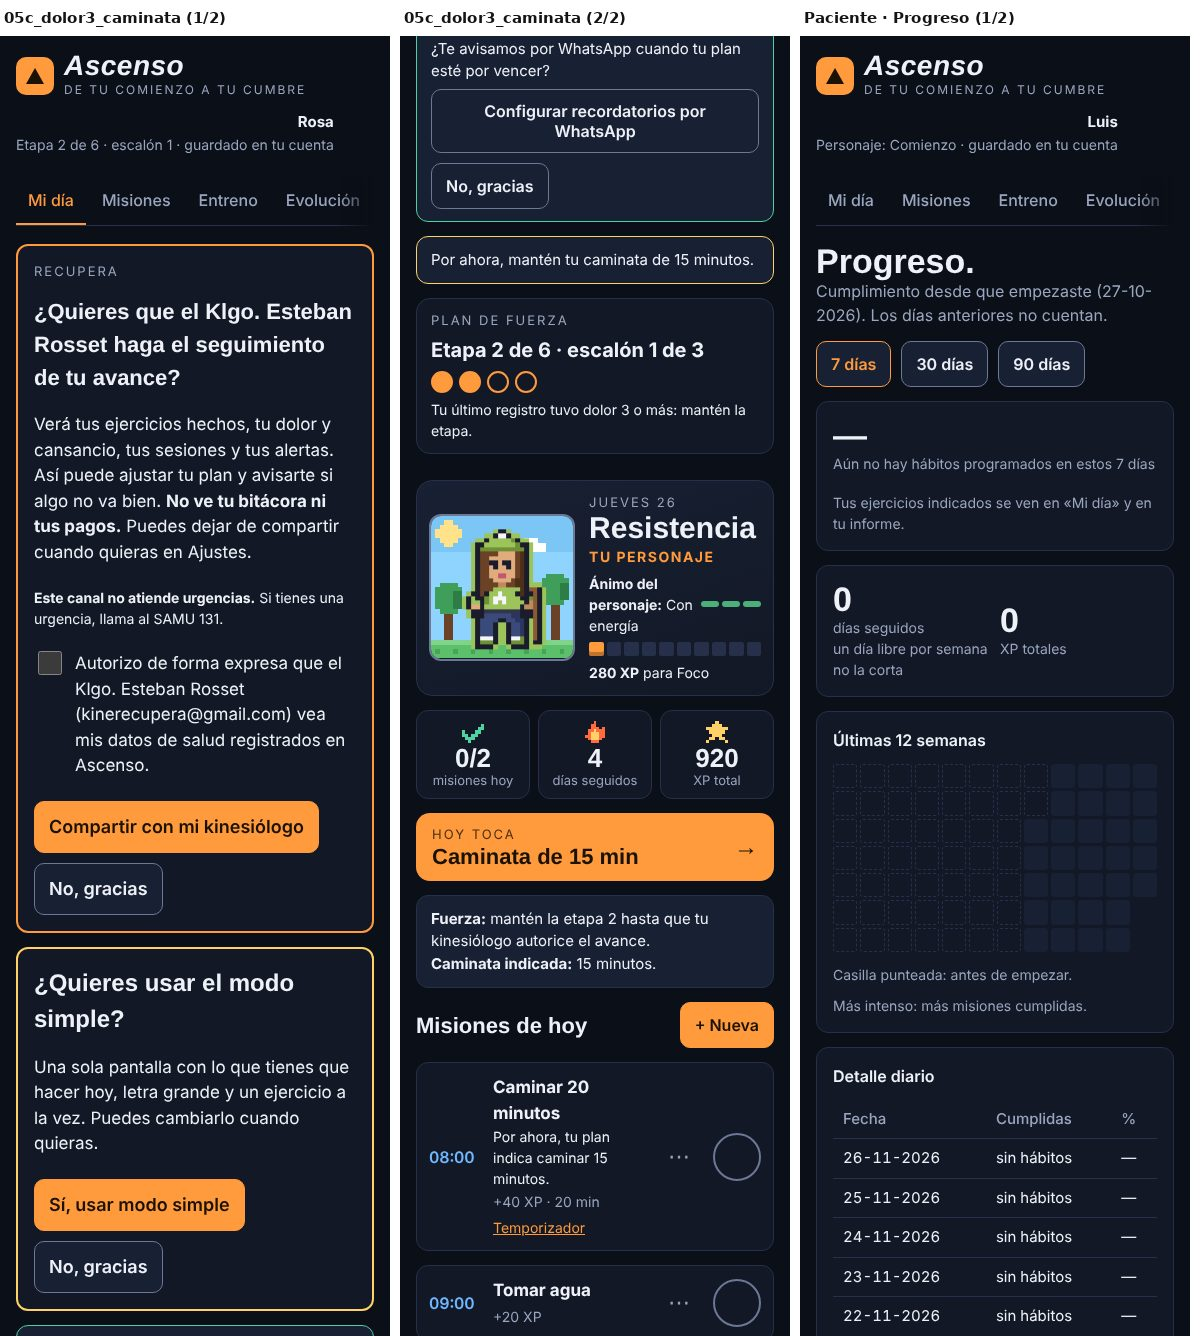
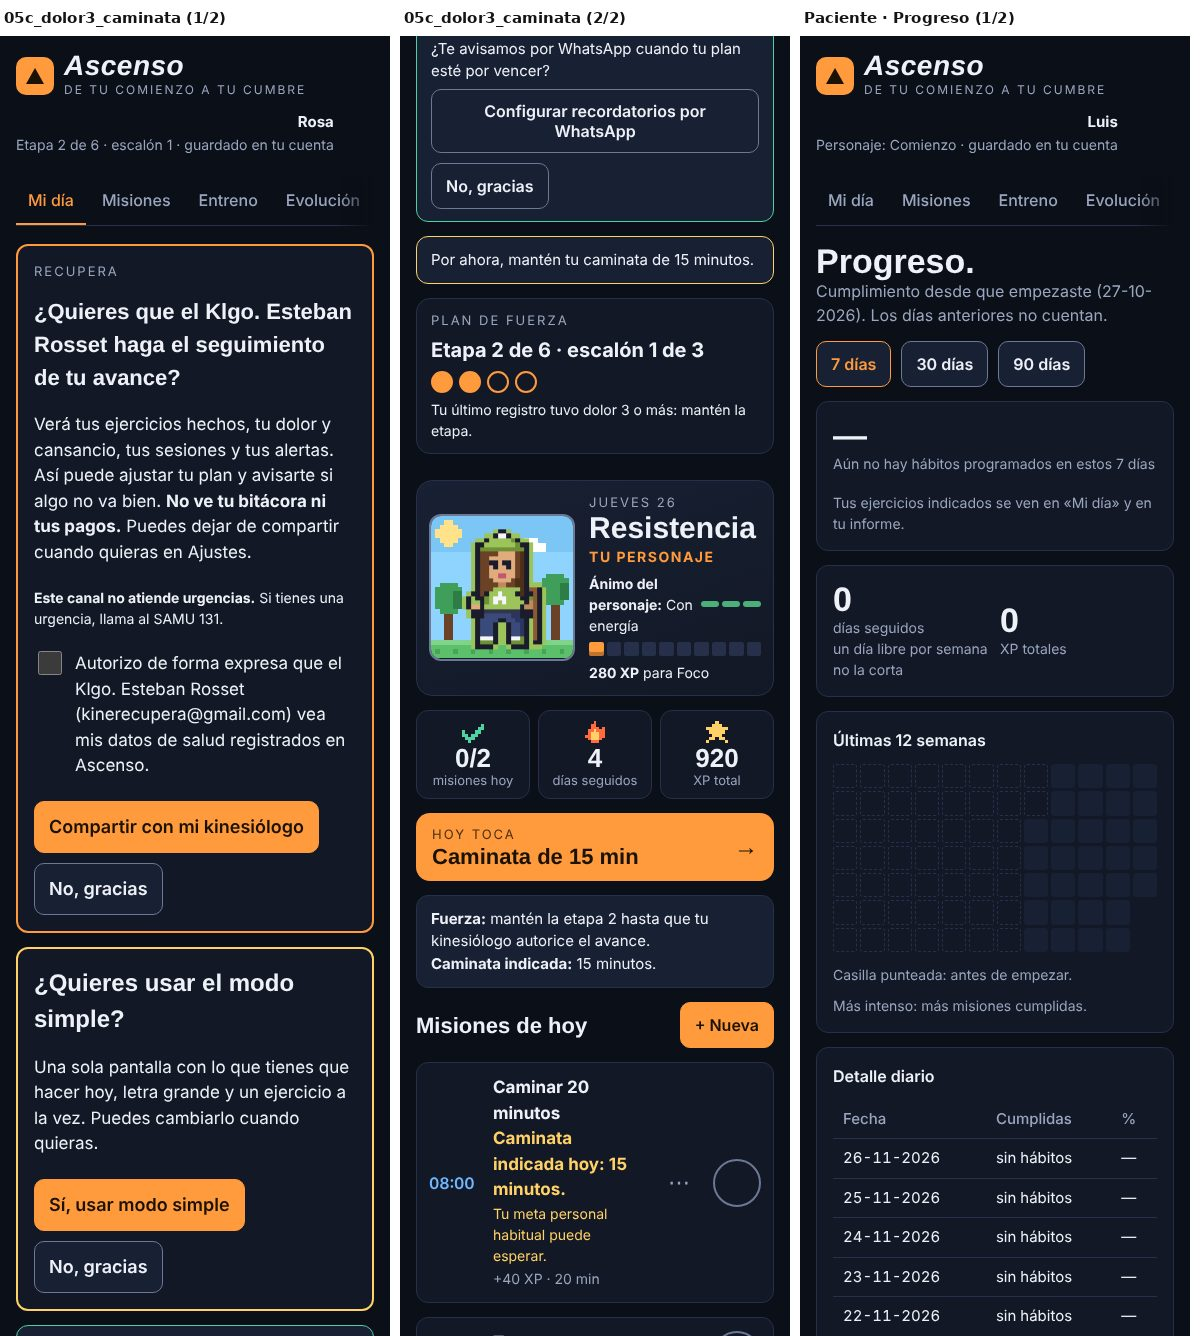
Copia de prueba v79: #60 #63 #64 (la app de los pacientes no cambia)
Claude-Session: https://claude.ai/code/session_01J9tU8kEPtqaroEiwXZirqq

Changed region(s): [[0.3392, 0.8286, 0.5242, 1.0], [0.5858, 0.982, 0.6475, 1.0], [0.5858, 0.8593, 0.6475, 0.89]]

diff --git a/beta/index.html b/beta/index.html
@@ -2,7 +2,7 @@
 <html lang="es">
 <head><base href="/ascenso/"><meta name="robots" content="noindex,nofollow"><script>(function(){var P="beta::",S=Storage.prototype,g=S.getItem,t=S.setItem,r=S.removeItem;S.getItem=function(k){return g.call(this,P+k)};S.setItem=function(k,v){return t.call(this,P+k,v)};S.removeItem=function(k){return r.call(this,P+k)};window.__BETA=true;window.__BETA_OK=[]})();</script>
 <meta charset="utf-8">
-<meta http-equiv="Content-Security-Policy" content="script-src 'self' 'sha256-s/2Ct3tFYhvXDkHKQXgCxKZn0b7j8MYsCZJcokQtB40=' 'sha256-PB0sfcQtKp8yHvTqB113r4+jDCwRiSKJRHyeBi9QgSM=' 'sha256-AFdyW6QBsN7g3o2Wol3DzaFtzZPYZuMmQ8KwB76Xs6I=' 'sha256-5m2u4pl+QQ/JE5w8ukPTJ/in6Wfsb5JmjLwGXVXoulQ=' 'sha256-x6Jjqo12cp5KPEwhwsD15s6v7TK37973w38eJjFjN10='; object-src 'none'; base-uri 'self'">
+<meta http-equiv="Content-Security-Policy" content="script-src 'self' 'sha256-s/2Ct3tFYhvXDkHKQXgCxKZn0b7j8MYsCZJcokQtB40=' 'sha256-FnGwi9MxPS9vc1IOxAUlZoINnJ9Y5FRYdE7A1ZZ2zFE=' 'sha256-AFdyW6QBsN7g3o2Wol3DzaFtzZPYZuMmQ8KwB76Xs6I=' 'sha256-5m2u4pl+QQ/JE5w8ukPTJ/in6Wfsb5JmjLwGXVXoulQ=' 'sha256-x6Jjqo12cp5KPEwhwsD15s6v7TK37973w38eJjFjN10='; object-src 'none'; base-uri 'self'">
 <meta name="viewport" content="width=device-width,initial-scale=1,viewport-fit=cover">
 <meta name="theme-color" content="#0b0f17">
 
@@ -422,7 +422,7 @@ function isPhys(m){return PHYS_RE.test(String(m&&m.name||""))}
 function planPaused(){if(!S.onboard||!S.onboard.health||!S.train)return false;const tr=trainReady();return tr==="paused"||tr==="hold"}
 function mPaused(m,d){return d===today()&&isPhys(m)&&planPaused()}
 function markPauseDay(){if(planPaused()){S.pauseDays=S.pauseDays||{};S.pauseDays[today()]=1}}
-function walkNote(m){if(!/camin/i.test(String(m&&m.name||""))||!S.train||!S.train.plan||trainReady()!=="ok"||progression().state!=="hold")return"";return`Por ahora, tu plan indica caminar ${S.train.plan.walk} minutos.`}
+function walkNote(m){if(!/camin/i.test(String(m&&m.name||""))||!S.train||!S.train.plan||trainReady()!=="ok"||progression().state!=="hold")return"";return`Caminata indicada hoy: ${S.train.plan.walk} minutos. Por ahora, tu plan indica caminar ${S.train.plan.walk} minutos.`}
 function dayMissions(day){return S.missions.filter(m=>scheduled(m,day)).sort((a,b)=>(a.time||"99:99").localeCompare(b.time||"99:99"))}
 function streak(){let n=0,g=0,d=today();const has=x=>S.done[x]&&Object.keys(S.done[x]).length>0,first=S.created||today();if(!has(d))d=addDays(d,-1);for(let k=0;k<1500&&d>=first;k++){if(has(d))n++;else if(dayMissions(d).filter(m=>!(S.pauseDays&&S.pauseDays[d]&&isPhys(m))).length===0){}else if(g<1+Math.floor(n/7))g++;else break;d=addDays(d,-1)}return n}
 function memberState(){const m=M||{status:"SIN MEMBRESÍA",active:false},exp=m.expires_at?Date.parse(m.expires_at):0,now=Date.now()+skew,active=!!m.active&&exp>now;let status=m.status;if(status==="ACTIVO"&&!active)status="VENCIDO";return{status,active,exp,kind:m.kind||"",days:active?Math.ceil((exp-now)/DAY):0}}
@@ -808,13 +808,13 @@ let KB=false;
 function simpleBtn(){if((M&&M.pro)||(S.ui&&S.ui.simple)||!(S.ui&&S.ui.simpleAsked))return"";return`<button class="btn tap" data-act="simpleOn" style="width:100%;min-height:52px;font-size:18px;border:2px solid var(--accent)">👆 Modo simple: toca aquí</button>`}
 function rxNextIdx(its,from){for(let j=0;j<its.length;j++){const i=(from+j)%its.length;if(!rxIsDone(rxKey(its[i])))return i}return -1}
 function rxPause(){if(!S.onboard||!S.onboard.health)return null;const tr=trainReady();if(tr==="paused")return{k:"parq"};if(tr==="hold"&&S.train.hold)return{k:S.train.hold.kind==="sintomas"?"sintomas":"dolor"};return null}
-function rxPauseMsg(p){return p.k==="parq"?"Tu pauta está en pausa. Tu kinesiólogo debe revisar tu respuesta antes de que retomes los ejercicios.":p.k==="sintomas"?"Tu pauta está en pausa porque registraste síntomas de alerta. No hagas estos ejercicios hasta hablar con tu kinesiólogo.":"Tu pauta está en pausa porque registraste dolor alto. No hagas estos ejercicios hasta que el dolor vuelva a tu nivel habitual o hables con tu kinesiólogo."}
+function rxPauseMsg(p){return p.k==="parq"?"Tu pauta está en pausa. Tu kinesiólogo debe revisar tu respuesta antes de que retomes los ejercicios.":p.k==="sintomas"?"Tu pauta está en pausa por los síntomas que registraste. Tu kinesiólogo debe revisar el registro y reactivar el plan antes de que retomes estos ejercicios.":"Tu pauta está en pausa porque registraste dolor alto. No hagas estos ejercicios hasta que el dolor vuelva a tu nivel habitual o hables con tu kinesiólogo."}
 function rxPausedCard(its,go){const p=rxPause();return`<div class="card" id="rxPaused" style="border:2px solid var(--bad,#b91c1c)">${p.k==="sintomas"?samuBox("0 0 12px"):""}<div class="eyebrow">Indicado por tu kinesiólogo</div><h2 style="margin:2px 0 6px">Pauta en pausa</h2><p style="margin:0 0 10px">${rxPauseMsg(p)}</p><ul class="stack" style="list-style:none;padding:0;margin:0;gap:6px" aria-label="Ejercicios en pausa">${its.map(it=>`<li class="small" aria-disabled="true" style="opacity:.7;border:1px solid var(--line2);border-radius:10px;padding:8px 10px"><b>${esc(rxName(it))}</b>${it.dose?` · ${esc(it.dose)}`:""}</li>`).join("")}</ul>${go==="none"?`<p class="small mute" style="margin:10px 0 0">Más abajo puedes ver la pausa y tus registros.</p>`:`<div class="row" style="margin-top:10px"><button class="btn tap${go==="sxPlan"?" sxl":""}" data-act="${go||"tab"}" data-k="entreno">Ver la pausa y mis registros</button></div>`}</div>`}
 function rxBlocked(){const p=rxPause();if(p){toast("Tu pauta está en pausa. Revisa el aviso antes de seguir.");return true}return false}
 function painStop(){const f=(S.dayFb||{})[today()]||{};return typeof f.pain==="number"&&f.pain>=6&&!f.go}
 function sProg(){try{const xp=totalXP(),si=stageIdx(xp),next=XP_STEPS[si+1],pct=next?Math.round((xp-XP_STEPS[si])/(next-XP_STEPS[si])*100):100,av=myAv();
  return`<section class="scard" aria-label="Tu avance"><h2>Tu avance</h2><div style="display:flex;gap:14px;align-items:center"><div style="width:112px;flex:none;border-radius:12px;overflow:hidden">${pxSvg(av,si+1,{anim:motionOn(),label:"Tu personaje: "+formName(si)})}</div><div style="min-width:0;flex:1"><p style="margin:0;font-size:24px;font-weight:800;line-height:1.15">${esc(formName(si))}</p><p style="margin:2px 0 8px;font-size:17px" class="mute">Forma ${si+1} de 16</p>${pbar(pct)}<p style="margin:8px 0 0;font-size:17px">${next?`Te faltan <b>${next-xp} XP</b> para llegar a <b>${esc(formName(si+1))}</b>.`:"¡Llegaste a la cumbre!"}</p></div></div><div style="margin-top:10px">${evoChart()}</div><p class="mute" style="margin:6px 0 0;font-size:16px">Tu personaje sube con cada hábito y ejercicio que cumples.</p></section>`}catch(e){return""}}
-function trPauseMsg(tr){const k=SH.mine.length?"tu kinesiólogo":"un kinesiólogo";if(tr==="paused")return{bad:1,eb:"Plan de fuerza en pausa",t:"Espera la autorización de "+k,sub:"Por tus respuestas del cuestionario previo, el plan (fuerza y caminata) no se registra hasta que te autorice. Tus hábitos siguen igual."};if(tr==="hold")return{bad:1,eb:"Plan en pausa",t:S.train.hold&&S.train.hold.kind==="sintomas"?"Registraste síntomas de alerta":"Registraste dolor alto o nuevo",sub:"Toca para ver qué hacer antes de volver a entrenar."};if(tr==="parq")return{eb:"Plan de fuerza",t:"Responde el cuestionario previo",sub:PARQ.length+" preguntas de Sí o No antes de partir."};if(tr==="consent")return{eb:"Plan de fuerza",t:"Falta tu autorización de datos de salud"};return{eb:"Plan de fuerza",t:"Actívalo en 2 minutos"}}
+function trPauseMsg(tr){const k=SH.mine.length?"tu kinesiólogo":"un kinesiólogo";if(tr==="paused")return{bad:1,eb:"Plan de fuerza en pausa",t:"Espera la autorización de "+k,sub:"Por tus respuestas del cuestionario previo, el plan (fuerza y caminata) no se registra hasta que te autorice. Puedes seguir registrando los hábitos que no son actividad física, como tomar agua."};if(tr==="hold")return{bad:1,eb:"Plan en pausa",t:S.train.hold&&S.train.hold.kind==="sintomas"?"Registraste síntomas de alerta":"Registraste dolor alto o nuevo",sub:"Toca para ver qué hacer antes de volver a entrenar."};if(tr==="parq")return{eb:"Plan de fuerza",t:"Responde el cuestionario previo",sub:PARQ.length+" preguntas de Sí o No antes de partir."};if(tr==="consent")return{eb:"Plan de fuerza",t:"Falta tu autorización de datos de salud"};return{eb:"Plan de fuerza",t:"Actívalo en 2 minutos"}}
 function moodDays(){const ds=[];for(const d in (S.done||{}))if(Object.values(S.done[d]||{}).some(v=>+v>0))ds.push(d);for(const x of ((S.train||{}).sessions||[]))if(x.date)ds.push(x.date);for(const d in (S.rxDone||{}))if(Object.keys(S.rxDone[d]||{}).length)ds.push(d);for(const d in (S.pauseDays||{}))ds.push(d);if(!ds.length)return null;const l=ds.sort().pop();return Math.max(0,Math.round((pdate(today())-pdate(l))/864e5))}
 const MOOD=[["Apagado","Tu personaje te extraña"],["Decaído","Hace días que no se mueve"],["Cansado","Le falta un poco de movimiento"],["Con energía","Está con toda la energía"]];
 function moodLvl(d){return d===null||d<=1?3:d<=3?2:d<=6?1:0}
@@ -828,7 +828,7 @@ function vSimple(){const d=today(),its=rxAll(),ms=dayMissions(d),done=S.done[d]|
  <p class="shelp">🤝 Si te ayuda alguien, puede tocar los botones por ti.</p>
  ${its.length&&rxPause()?rxPausedCard(its,"sxPlan"):its.length?`<section class="scard"><h2>Ejercicios de tu kinesiólogo</h2><p style="margin:0;font-size:18px"><b>${nd} de ${its.length}</b> hechos hoy</p>${its.map((it,i)=>{const k=rxKey(it),ok=rxIsDone(k),src=it.ex?rxSrc(it.ex):"";return`<button class="srow${ok?" ok":""}" data-act="sxGo" data-i="${i}">${src?`<img src="${src}" alt="" loading="lazy">`:""}<span><b>${esc(rxName(it))}</b>${it.dose?`<small>${esc(it.dose)}</small>`:""}</span><span class="sst" aria-label="${ok?"Hecho":"Pendiente"}">${ok?"✓":""}</span></button>`}).join("")}${nx>=0?(painStop()?`<div class="banner bad" style="margin-top:12px;font-size:17px"><b>Marcaste dolor ${fb.pain} de 10.</b> Antes de seguir con ejercicios hoy, habla con tu kinesiólogo.</div>${SH.mine.length?`<button class="btn pri sxl" data-act="sxPainNote">Avisarle a mi kinesiólogo</button>`:""}<button class="btn sxl" data-act="sxPainGo">Hablé con mi kinesiólogo y quiero seguir</button>`:`<button class="btn pri sxl" data-act="sxGo" data-i="${nx}">▶ ${nd?(its.length-nd===1?`Ver mi último ejercicio: ${esc(rxName(its[nx]))}`:`Seguir con el siguiente: ${esc(rxName(its[nx]))}`):"Empezar mis ejercicios"}</button>`):`<p style="margin:12px 0 0;font-size:19px">✅ <b>¡Listo por hoy!</b> Hiciste todos tus ejercicios.</p>`}</section>`:anyRx?`<section class="scard"><h2>Ejercicios de tu kinesiólogo</h2><p style="margin:0;font-size:18px">Hoy no te tocan. Descansar también es parte del plan.${rxNext(SH.mine.flatMap(x=>x.rx||[]))?` Los próximos son el <b>${rxNext(SH.mine.flatMap(x=>x.rx||[]))}</b>.`:""}</p></section>`:""}
  ${S.train&&S.train.plan?`<section class="scard"><h2>Tu plan Ascenso</h2>${tr==="ok"?(sessionToday()?`<p style="margin:0;font-size:18px"><b>Tu sesión de hoy ya está registrada.</b> Próxima: ${nextTrainTxt()}.</p>${capLines()}${walkKeep()}<button class="btn sxl" data-act="sxPlan">Ver mi plan</button>`:`<p style="margin:0;font-size:18px">Hoy toca <b>${tt==="fuerza"?"fuerza · etapa "+S.train.stage:"caminata de "+S.train.plan.walk+" minutos"}</b>.</p>${capLines()}${walkKeep()}<button class="btn sxl" data-act="sxPlan">Hacer mi plan de hoy</button>`):`<p style="margin:0;font-size:18px"><b>${trPauseMsg(tr).t}.</b>${trPauseMsg(tr).sub?" "+trPauseMsg(tr).sub:""}</p><button class="btn sxl" data-act="sxPlan">Ver mi plan</button>`}</section>`:""}
- ${ms.length?`<section class="scard"><h2>Tus hábitos de hoy</h2><p class="mute" style="margin:0">Toca cada uno cuando lo cumplas.</p>${ms.map(m=>!done[m.id]&&mPaused(m,today())?`<div class="srow" aria-disabled="true" style="opacity:.75"><span><b>${esc(m.name)}</b><small>En pausa junto con tu plan</small></span><span class="sst" aria-label="En pausa">⏸</span></div>`:`<button class="srow${done[m.id]?" ok":""}" data-act="toggle" data-id="${m.id}"><span><b>${esc(m.name)}</b>${walkNote(m)?`<small>${walkNote(m)}</small>`:m.time?`<small>${esc(m.time)}</small>`:""}</span><span class="sst" aria-label="${done[m.id]?"Cumplido":"Pendiente"}">${done[m.id]?"✓":""}</span></button>`).join("")}</section>`:""}
+ ${ms.length?`<section class="scard"><h2>Tus hábitos de hoy</h2><p class="mute" style="margin:0">Toca cada uno cuando lo cumplas.</p>${ms.map(m=>!done[m.id]&&mPaused(m,today())?`<div class="srow" aria-disabled="true" style="opacity:.75"><span><b>${esc(m.name)}</b><small>En pausa junto con tu plan</small></span><span class="sst" aria-label="En pausa">⏸</span></div>`:`<button class="srow${done[m.id]?" ok":""}" data-act="toggle" data-id="${m.id}"><span><b>${esc(m.name)}</b>${walkNote(m)?`<small>${walkNote(m).split(". ")[0]}.</small>`:m.time?`<small>${esc(m.time)}</small>`:""}</span><span class="sst" aria-label="${done[m.id]?"Cumplido":"Pendiente"}">${done[m.id]?"✓":""}</span></button>`).join("")}</section>`:""}
  <section class="scard"><h2>¿Cómo te sentiste hoy?</h2>${sScale("tired","Cansancio",fb.tired)}${sScale("pain","Dolor",fb.pain)}${fb.pain>=6?`<p class="banner bad" style="margin:12px 0 0;font-size:17px">Con dolor de ${fb.pain} de 10, no sigas con ejercicios hoy sin hablar antes con tu kinesiólogo. ${SH.mine.length?"Él verá este aviso.":""} Si el dolor es muy fuerte o aparece de golpe, llama al SAMU 131.</p>${samuBox("10px 0 0")}`:""}</section>
  ${sProg()}
  <div class="stack" style="gap:10px"><button class="btn sbtn" data-act="sxMore">⚙ Más opciones</button><button class="btn sbtn" data-act="simpleOff">Salir del modo simple</button></div></div>`}
@@ -855,8 +855,8 @@ function vDia(){if(S.ui&&S.ui.simple&&!view.sOut)return vSimple();const d=today(
  ${ms.length?ms.map(m=>missionRow(m,d,true)).join(""):`<div class="card"><h3>Tu primera misión empieza aquí</h3><p class="mute">Crea una o elige entre 24 hábitos sugeridos.</p><div class="row"><button class="btn" data-act="tab" data-k="misiones">Ver sugeridos</button></div></div>`}`}
 
 function missionRow(m,d,act){const dn=(S.done[d]||{})[m.id],op=act&&view.mo===m.id,mp=act&&!dn&&mPaused(m,d),wn=act?walkNote(m):"";
- const links=`${m.dur&&act&&!mp?`<button class="link" data-act="startTimer" data-id="${m.id}">Temporizador</button>`:""}${m.time?`<a class="link" style="color:var(--accent)" target="_blank" rel="noopener" href="${calUrl(m)}">Google Calendar</a>`:""}<button class="link" data-act="editMission" data-id="${m.id}">Editar</button>`;
- return`<div class="mission ${dn?"done":""}${mp?" paused":""}"${mp?' aria-disabled="true"':""}><span class="t">${esc(m.time||"—")}</span><div class="n"><b>${esc(m.name)}</b>${mp?`<span class="small" style="display:block;color:var(--warn,#b45309)"><b>En pausa junto con tu plan.</b> No suma ni resta puntos ni racha.</span>`:wn?`<span class="small" style="display:block">${wn}</span>`:""}<span class="mute small">${mp?"":`+${+m.xp||0} XP`}${m.dur?" · "+m.dur+" min":""}${act?"":` · ${esc(m.cat)} · ${m.days.length===7?"todos los días":m.days.map(x=>DOW[x]).join(", ")}`}</span>${!act||op?`<div class="row small" style="margin-top:4px">${links}</div>`:m.dur&&!mp?`<div class="row small" style="margin-top:4px"><button class="link" data-act="startTimer" data-id="${m.id}">Temporizador</button></div>`:""}</div>${act?`<button class="more" data-act="mMore" data-id="${m.id}" aria-expanded="${op}" aria-label="Opciones de ${esc(m.name)}">⋯</button>${mp?"":`<button class="check" aria-label="${dn?"Desmarcar":"Marcar como cumplida"}" data-act="toggle" data-id="${m.id}">${dn?"✓":""}</button>`}`:""}</div>`}
+ const links=`${m.dur&&act&&!mp&&!wn?`<button class="link" data-act="startTimer" data-id="${m.id}">Temporizador</button>`:""}${m.time?`<a class="link" style="color:var(--accent)" target="_blank" rel="noopener" href="${calUrl(m)}">Google Calendar</a>`:""}<button class="link" data-act="editMission" data-id="${m.id}">Editar</button>`;
+ return`<div class="mission ${dn?"done":""}${mp?" paused":""}"${mp?' aria-disabled="true"':""}><span class="t">${esc(m.time||"—")}</span><div class="n"><b>${esc(m.name)}</b>${mp?`<span class="small" style="display:block;color:var(--warn,#b45309)"><b>En pausa junto con tu plan.</b> No suma ni resta puntos ni racha.</span>`:wn?`<span class="small" style="display:block;color:var(--warn,#b45309)"><b>${wn.split(". ")[0]}.</b> Tu meta personal habitual puede esperar.</span>`:""}<span class="mute small">${mp?"":`+${+m.xp||0} XP`}${m.dur?" · "+m.dur+" min":""}${act?"":` · ${esc(m.cat)} · ${m.days.length===7?"todos los días":m.days.map(x=>DOW[x]).join(", ")}`}</span>${!act||op?`<div class="row small" style="margin-top:4px">${links}</div>`:m.dur&&!mp&&!wn?`<div class="row small" style="margin-top:4px"><button class="link" data-act="startTimer" data-id="${m.id}">Temporizador</button></div>`:""}</div>${act?`<button class="more" data-act="mMore" data-id="${m.id}" aria-expanded="${op}" aria-label="Opciones de ${esc(m.name)}">⋯</button>${mp?"":`<button class="check" aria-label="${dn?"Desmarcar":"Marcar como cumplida"}" data-act="toggle" data-id="${m.id}">${dn?"✓":""}</button>`}`:""}</div>`}
 
 function calUrl(m){let d=today();for(let i=0;i<7&&!m.days.includes(pdate(d).getDay());i++)d=addDays(d,1);const[h,mi]=m.time.split(":").map(Number),s=d.replace(/-/g,"")+"T"+pad(h)+pad(mi)+"00",e=new Date(pdate(d).getTime()+(h*60+mi+15)*6e4),es=dstr(e).replace(/-/g,"")+"T"+pad(e.getHours())+pad(e.getMinutes())+"00";
  let tz="America/Santiago";try{tz=Intl.DateTimeFormat().resolvedOptions().timeZone||tz}catch(e){}
